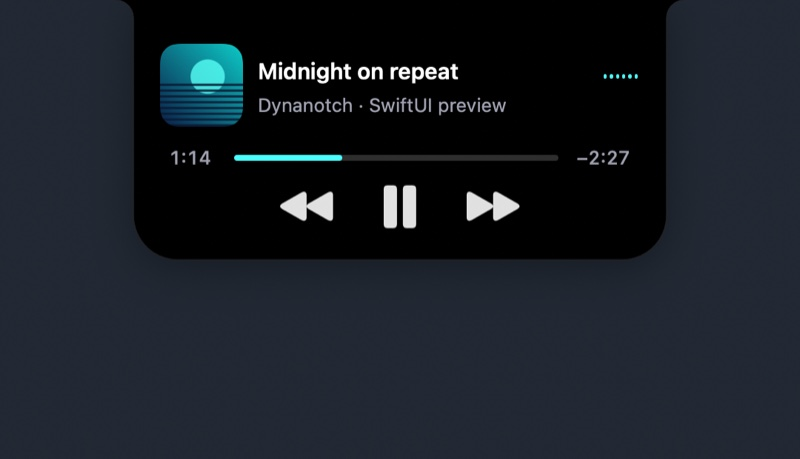
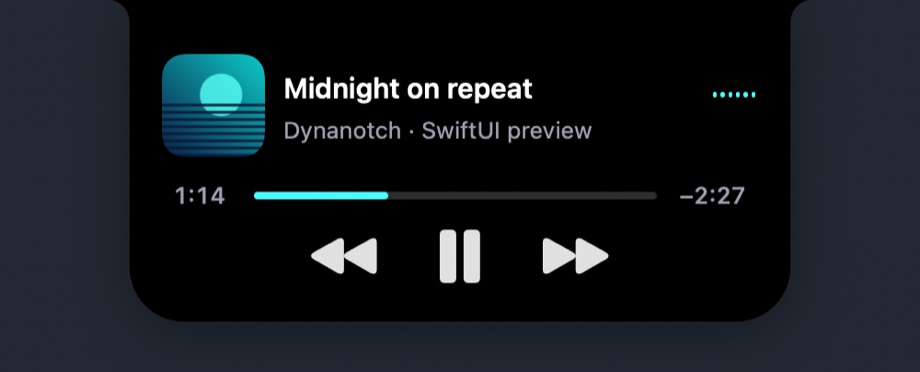
Show Dynanotch in action and document v1 build options

diff --git a/Sources/NotchMac/AppVerification.swift b/Sources/NotchMac/AppVerification.swift
@@ -164,6 +164,7 @@ import NotchCore
             && musicLayout.trailingCharge?.kind == .charging
         render(musicLayout, output.appendingPathComponent("music-with-airpods-and-charging.png"))
         musicLayout.previewNotice(battery: 0.75)
+        render(musicLayout, output.appendingPathComponent("airpods-connected-with-music-and-charging.png"))
         let nativeCombinedWins = AirPodsBatteryDetails(left: 0.68, right: 0.43,
                                                        chargingCase: 0.92, combined: 0.45).listeningLevel == 0.45
         let missingCombinedUsesEarbuds = AirPodsBatteryDetails(left: 0.68, right: 0.43,

diff --git a/Sources/NotchMac/App.swift b/Sources/NotchMac/App.swift
@@ -49,7 +49,11 @@ import Darwin
         }
         if let index = args.firstIndex(of: "--verify-app"), args.indices.contains(index + 1) {
             verificationOnly = true
-            AppVerification.run(directory: args[index + 1]); return
+            Task { @MainActor in
+                await SystemAirPodsArtwork.preload()
+                AppVerification.run(directory: args[index + 1])
+            }
+            return
         }
         if args.contains("--check-airpods-assets") {
             Task { @MainActor in

diff --git a/README.md b/README.md
@@ -6,6 +6,22 @@ A SwiftUI and AppKit app that turns the MacBook camera notch into an interactive
 
 ![Expanded player showing sample track artwork, a progress bar, and playback controls](docs/images/player.jpg)
 
+## See it in action
+
+**AirPods connected while music is playing.** The connection bubble appears on the left, music stays in the center, and the MacBook’s charging pill sits on the right.
+
+![Compact music notch with an AirPods connection bubble on the left and a charging pill on the right](docs/images/airpods-connected.png)
+
+**Click the AirPods bubble for battery details.** The bubble grows into a pill with separate case, left, and right readings. AirPods Max shows a single reading.
+
+![Expanded AirPods battery pill showing three separate battery readings beside the compact player and charging pill](docs/images/airpods-battery-details.png)
+
+These screenshots are rendered by Dynanotch using sample media and battery readings.
+
+**Where the physical notch sits.** The dashed outline marks the camera cutout on a notched MacBook. Artwork and the waveform stay on either side, with AirPods and charging in separate bubbles farther out.
+
+![Layout diagram showing the physical camera notch between the artwork and waveform, flanked by the AirPods and charging bubbles](docs/images/physical-notch-layout.svg)
+
 ## What it does
 
 - **Now playing.** Expand the notch to see artwork, scrolling track information, a seek bar, and playback controls for Music and Spotify. Music also supports favorites and AirPlay output selection. Track changes flip the cover in place, and the waveform and progress bar take their accent from the artwork.
@@ -14,16 +30,35 @@ A SwiftUI and AppKit app that turns the MacBook camera notch into an interactive
 - **Charging and volume.** Charging and volume can use their own trailing pill when the main notch is occupied. Volume changes during playback keep the artwork visible; an × marks mute.
 - **Timers.** Start a Dynanotch timer from Settings → Activities. These timers are separate from Clock. Dynanotch does not import other apps’ Live Activities.
 
-## Build and run
+## Download
 
-Use a Mac with macOS 14.4 or later, Xcode with Swift 6, and a valid Apple Development or Developer ID Application signing identity in Keychain. The current build was tested on Apple Silicon. Liquid Glass requires macOS 26 or later.
+Get the precompiled Apple Silicon ZIP from the [v1.0.0 release](https://github.com/Eduannnn/Dynanotch/releases/tag/v1.0.0). Unzip it and move **Dynanotch.app** to Applications. The download is ad hoc signed and is not notarized, so macOS may block it. A signed local build is the alternative and is recommended if you plan to keep updating from source.
+
+Dynanotch targets macOS 14.4 or later and was tested on Apple Silicon. Liquid Glass requires macOS 26 or later.
+
+## Build from source
+
+Use Xcode with Swift 6 and an Apple Development or Developer ID Application signing identity in Keychain. For an Apple Development identity, open Xcode → Settings → Accounts → Manage Certificates. Get the source ZIP from the release, or clone the repository:
+
+```sh
+git clone https://github.com/Eduannnn/Dynanotch.git
+cd Dynanotch
+```
+
+### Option 1: Build in Terminal
 
 ```sh
 ./Scripts/build-app.sh
 open Build/Dynanotch.app
 ```
 
-The script builds a release app and verifies its signature. If you have several valid certificates, set `DYNANOTCH_SIGNING_IDENTITY` to the installed identity’s fingerprint or put the fingerprint in the ignored `.signing-identity` file. For direct Xcode builds, see [stable signing](docs/stable-signing.md). The build is for local use and is not notarized.
+The script builds a release app and verifies its signature. If you have several valid certificates, select one using `DYNANOTCH_SIGNING_IDENTITY` or the ignored `.signing-identity` file. Both take the certificate fingerprint.
+
+### Option 2: Build in Xcode
+
+1. Add your team and certificate fingerprint to the ignored `Signing.local.xcconfig` file, as shown in [stable signing](docs/stable-signing.md).
+2. Open `Dynanotch.xcodeproj` and select the **Dynanotch-macOS** scheme and **My Mac**.
+3. Choose **Product → Run**. To build without launching, choose **Product → Build** and find the app in Xcode’s Products group.
 
 For everyday use, keep a single copy in Applications. Quit the running app before replacing it. Keep its bundle identifier and signing identity stable between updates to help macOS retain permission grants.
 
